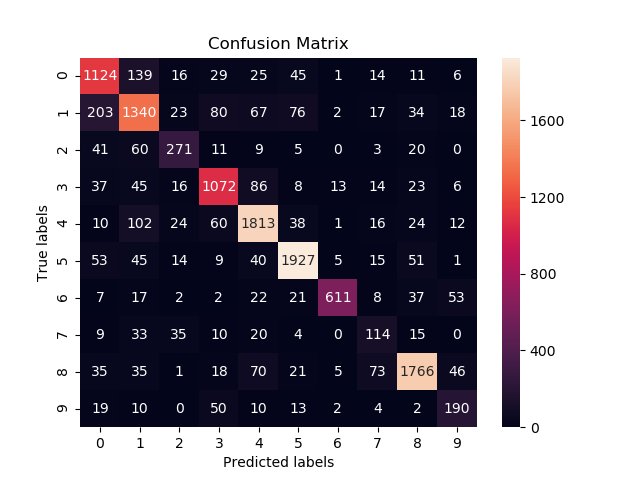
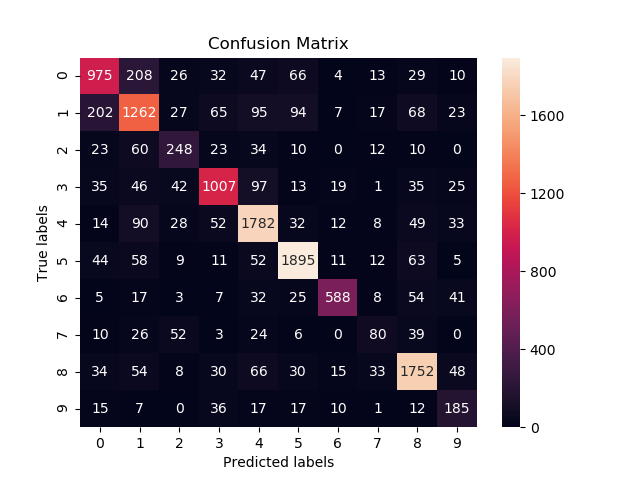
final

diff --git a/signscan/cw2.py b/signscan/cw2.py
@@ -9,13 +9,6 @@ from signscan.cli import signscan, load_data
 from sklearn import tree
 from sklearn.tree import DecisionTreeClassifier # Import Decision Tree Classifier
 from sklearn.tree import export_graphviz
-from sklearn.model_selection import GridSearchCV
-
-from sklearn.model_selection import KFold
-from sklearn.model_selection import cross_validate
-
-#from sklearn.cross_validation import cross_val_score
-#from sklearn.model_selection import StratifiedKFold
 from sklearn.model_selection import train_test_split # Import train_test_split function
 from sklearn.model_selection import cross_val_score, cross_val_predict # Import cross_val_score function
 from sklearn import metrics #Import scikit-learn metrics module for accuracy calculation
@@ -93,8 +86,8 @@ def decisiontree_j48(ctx, train_type: TrainingType):
     elif train_type is TrainingType.TRAIN_TEST:
         test_images, test_labels = load_data("./cw2", shuffle_seed=ctx.obj["seed"])
         # Perform traim-test split
-        # 100% 70% training and 30% test (Task 5, 6 and 7)
-        train_images, split_images, train_labels, split_labels = train_test_split(train_images, train_labels, test_size=0.7, random_state=42)
+        # 30% 70% training and 100% test (Task 5, 6 and 7)
+        train_images, split_images, train_labels, split_labels = train_test_split(train_images, train_labels, test_size=0.3, random_state=42)
         test_images = test_images.append(split_images)
         test_labels = test_labels.append(split_labels)
 
@@ -109,10 +102,10 @@ def decisiontree_j48(ctx, train_type: TrainingType):
         print("Making KFold CROSS_VALIDATION:")
         print("J48 Parameters: Moved data", clf.min_samples_split, ", min samples leaf: ", clf.min_samples_leaf)
         # Perform 10-fold cross validation
-        scores = cross_val_score(clf, train_images, train_labels, cv=10)
-        predicted_labels = clf.predict(train_images)
+        predicted_labels = cross_val_predict(clf, train_images, train_labels, cv=10)
+        #predicted_labels = clf.predict(train_images)
         #Visualisation trees
-        print("making visualisation of a tree...")
+        #print("making visualisation of a tree...")
         #for tree_in_forest in clf.estimators_:
         #dot_data = tree.export_graphviz(clf, out_file=None)
         #graph = graphviz.Source(dot_data)
